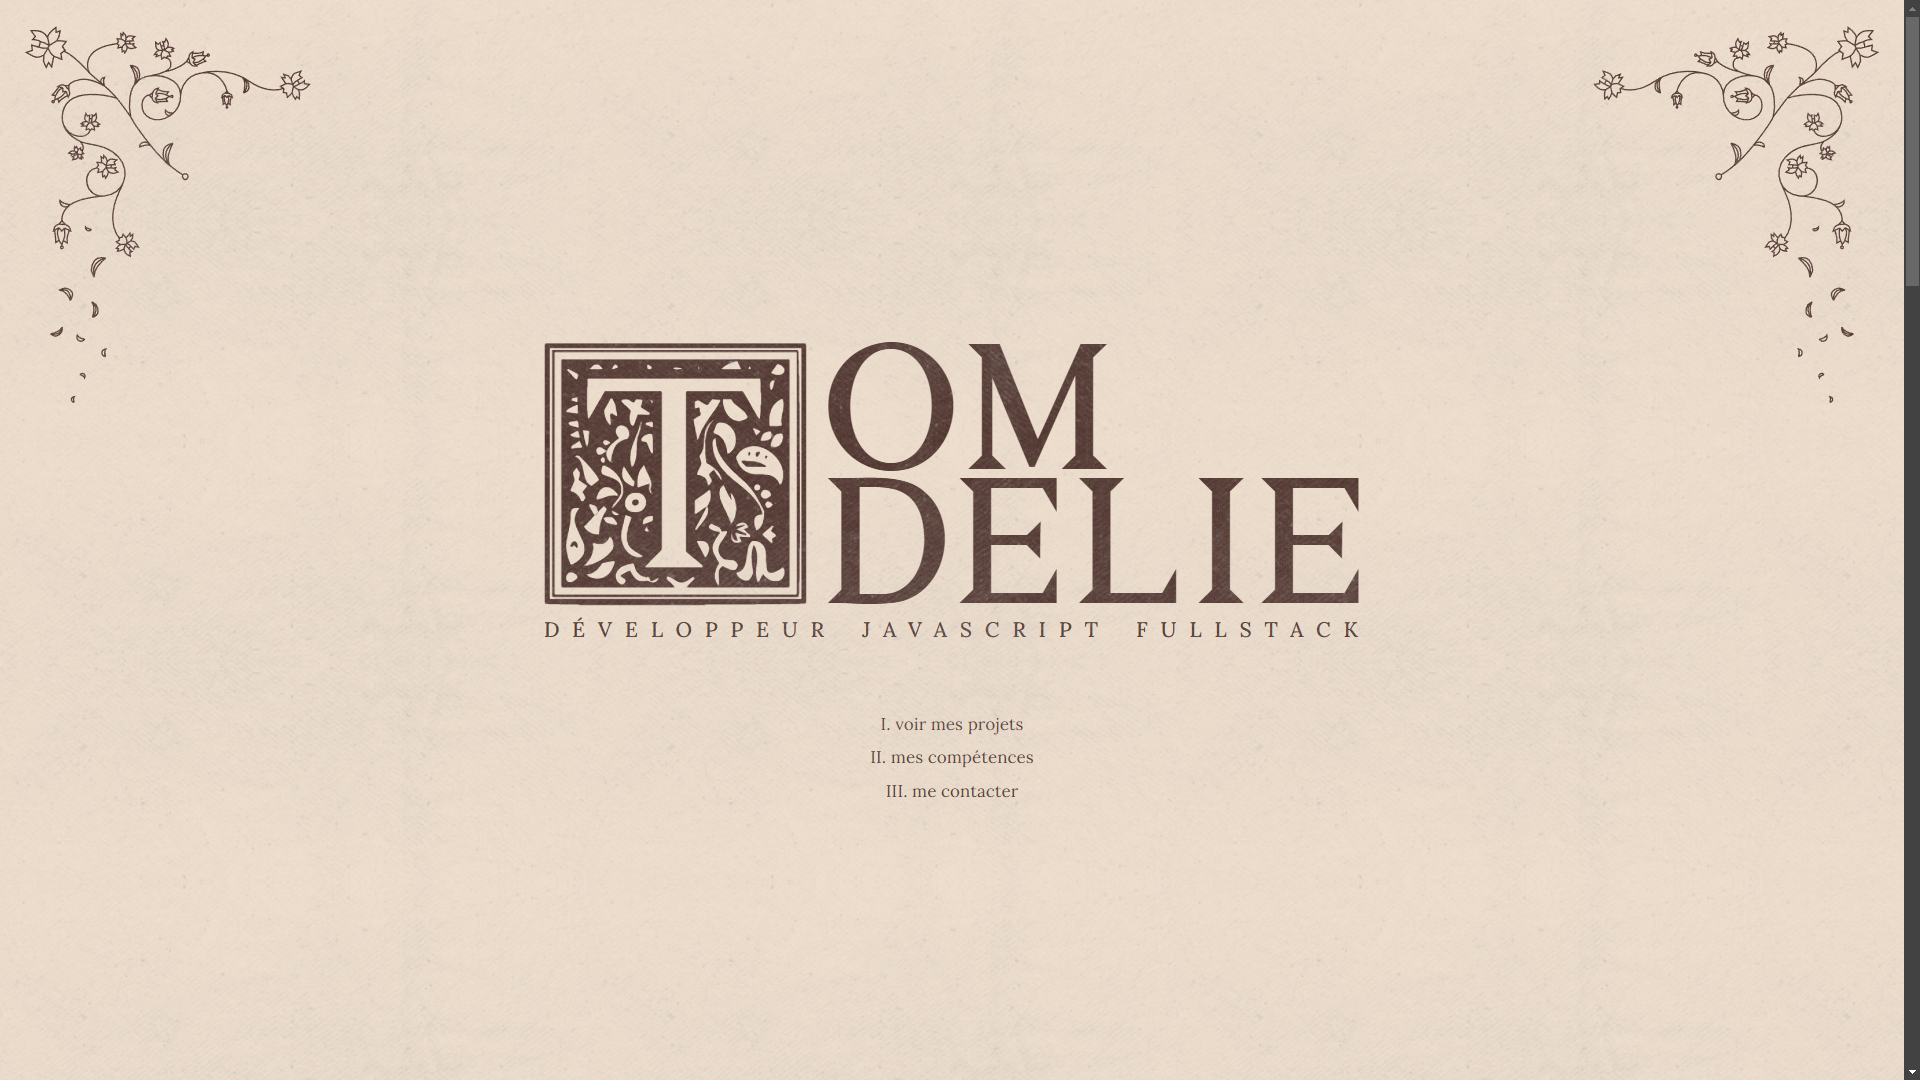
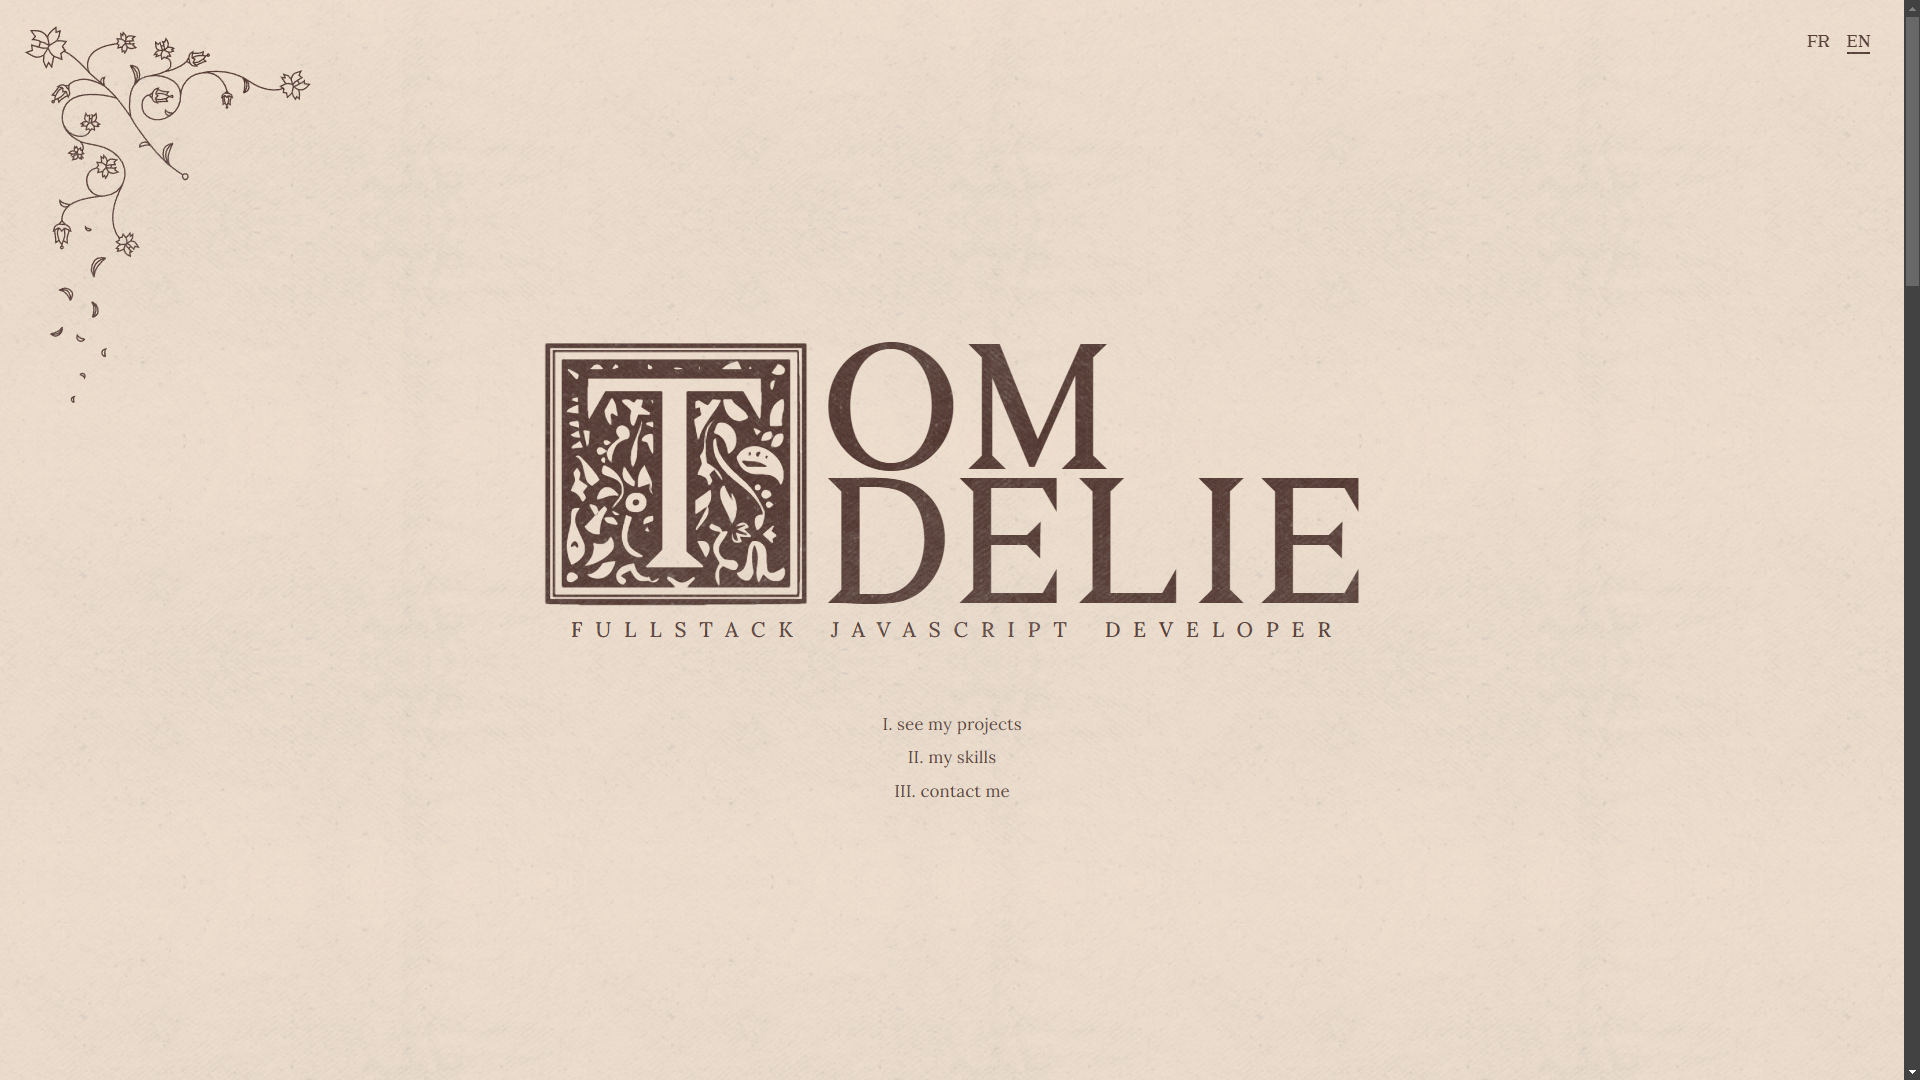
feat: add lang switcher

diff --git a/src/App.vue b/src/App.vue
@@ -16,7 +16,7 @@ enum ProjectType {
   PERSO = 2
 }
 
-const { t } = useI18n();
+const { t, locale } = useI18n();
 
 const loaded = ref(false);
 const filter = ref();
@@ -129,6 +129,11 @@ const projects = ref([
 ]);
 const projectSelected = ref();
 
+
+const setLocale = (value: string) => {
+  localStorage.setItem('lang', value);
+}
+
 const resizeObserver = new ResizeObserver(entries => {
   if (filter.value) {
     const bodyHeight = entries[0].target.clientHeight;
@@ -162,6 +167,13 @@ window.addEventListener('resize', () => {
 });
 
 onMounted(() => {
+  const pathname = window.location.pathname;
+  if (pathname === '/fr') localStorage.setItem('lang', 'fr');
+  if (pathname === '/en') localStorage.setItem('lang', 'en');
+
+  const lsLang = localStorage.getItem('lang');
+  if (lsLang) locale.value = lsLang;
+
   setTimeout(() => {
     loaded.value = true;
   }, 2000);
@@ -181,6 +193,14 @@ onMounted(() => {
 
 <template>
   <ProjectModal class="project-modal" @close="onProjectClose" v-if="projectSelected" :project="projectSelected" />
+
+  <header class="z-10 absolute top-0 left-0 flex justify-between w-full p-4 sm:p-8">
+    <div></div>
+    <nav class="text-[10px] sm:text-xs">
+      <a :class="`heavy-rain-text mr-2 sm:mr-4 ${locale === 'fr' ? 'border-b-2 border-secondary' : ''}`" href="/" @click="setLocale('fr')">FR</a>
+      <a :class="`heavy-rain-text ${locale === 'en' ? 'border-b-2 border-secondary' : ''}`" href="/en" @click="setLocale('en')">EN</a>
+    </nav>
+  </header>
 
   <div>
     <Hello class="h-full" />

diff --git a/src/components/Hello.vue b/src/components/Hello.vue
@@ -6,7 +6,6 @@ import LettrineCorner from './LettrineCorner.vue';
   <section class="hi relative text-center flex flex-col align-center justify-center">
 
     <div class="flowers">
-      <LettrineCorner class="w-[160px] sm:w-[200px] lg:w-[280px] absolute top-2 right-2 sm:top-4 sm:right-4" />
       <LettrineCorner class="scale-x-[-1] w-[160px] sm:w-[200px] lg:w-[280px] absolute top-2 left-2 sm:top-4 sm:left-4" />
     </div>
 

diff --git a/src/main.ts b/src/main.ts
@@ -7,5 +7,5 @@ import messages from '@intlify/unplugin-vue-i18n/messages';
 
 register();
 
-const i18n = createI18n({ locale: 'en', fallbackLocale: 'en', messages });
+const i18n = createI18n({ locale: 'fr', fallbackLocale: 'en', messages });
 createApp(App).use(i18n).mount('#app');
